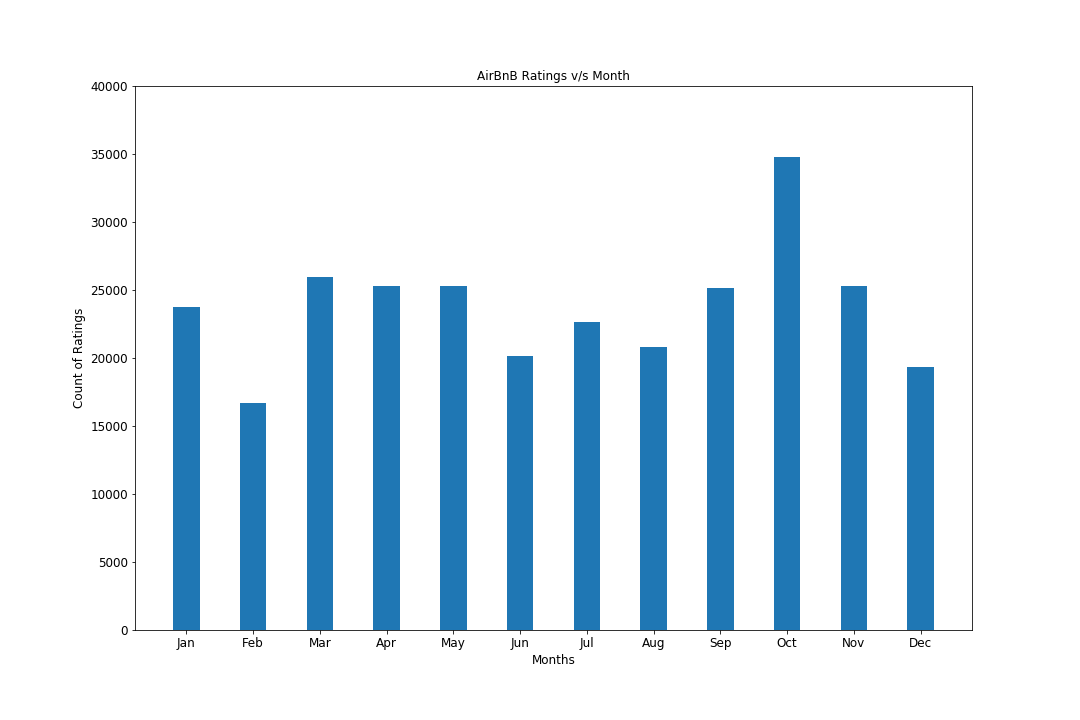
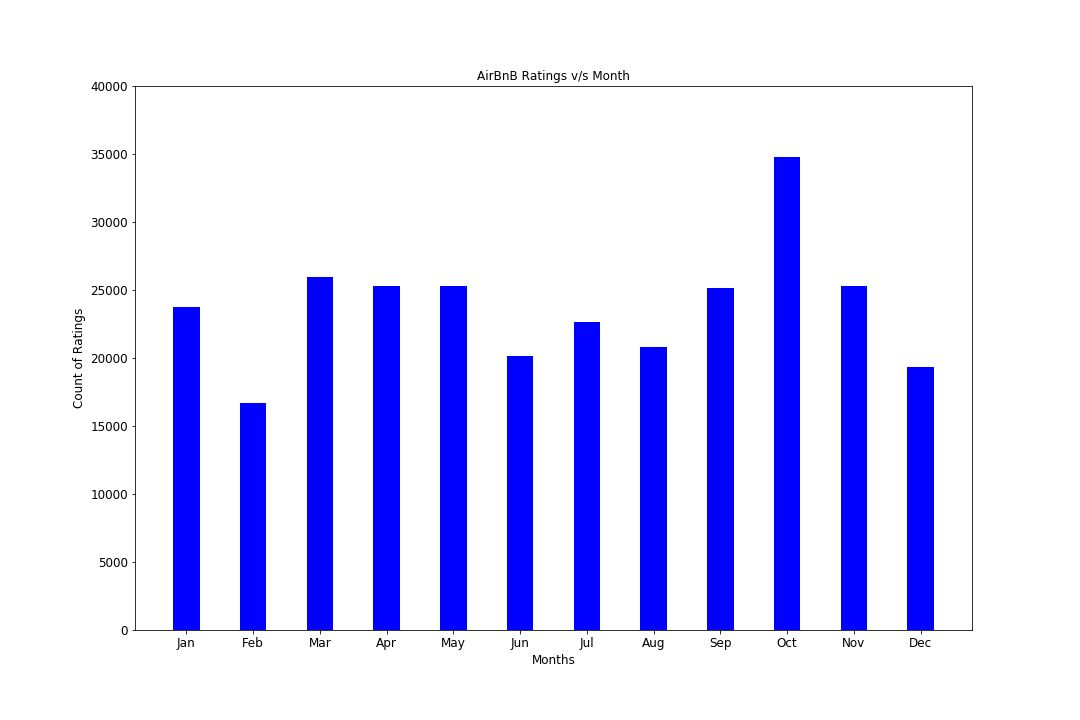
fix color consistency

diff --git a/README.md b/README.md
@@ -2,7 +2,7 @@
 
 
 ### Team Members:
-Quynh Tran, Ryan Burdick, Jesse Dymond & Upendra Addepalle
+Ryan Burdick, Jesse Dymond, Quynh Tran, & Upendra Addepalle
 
 ### Project Description:
 We will be analyzing AirBnB data to find trends in Austin
